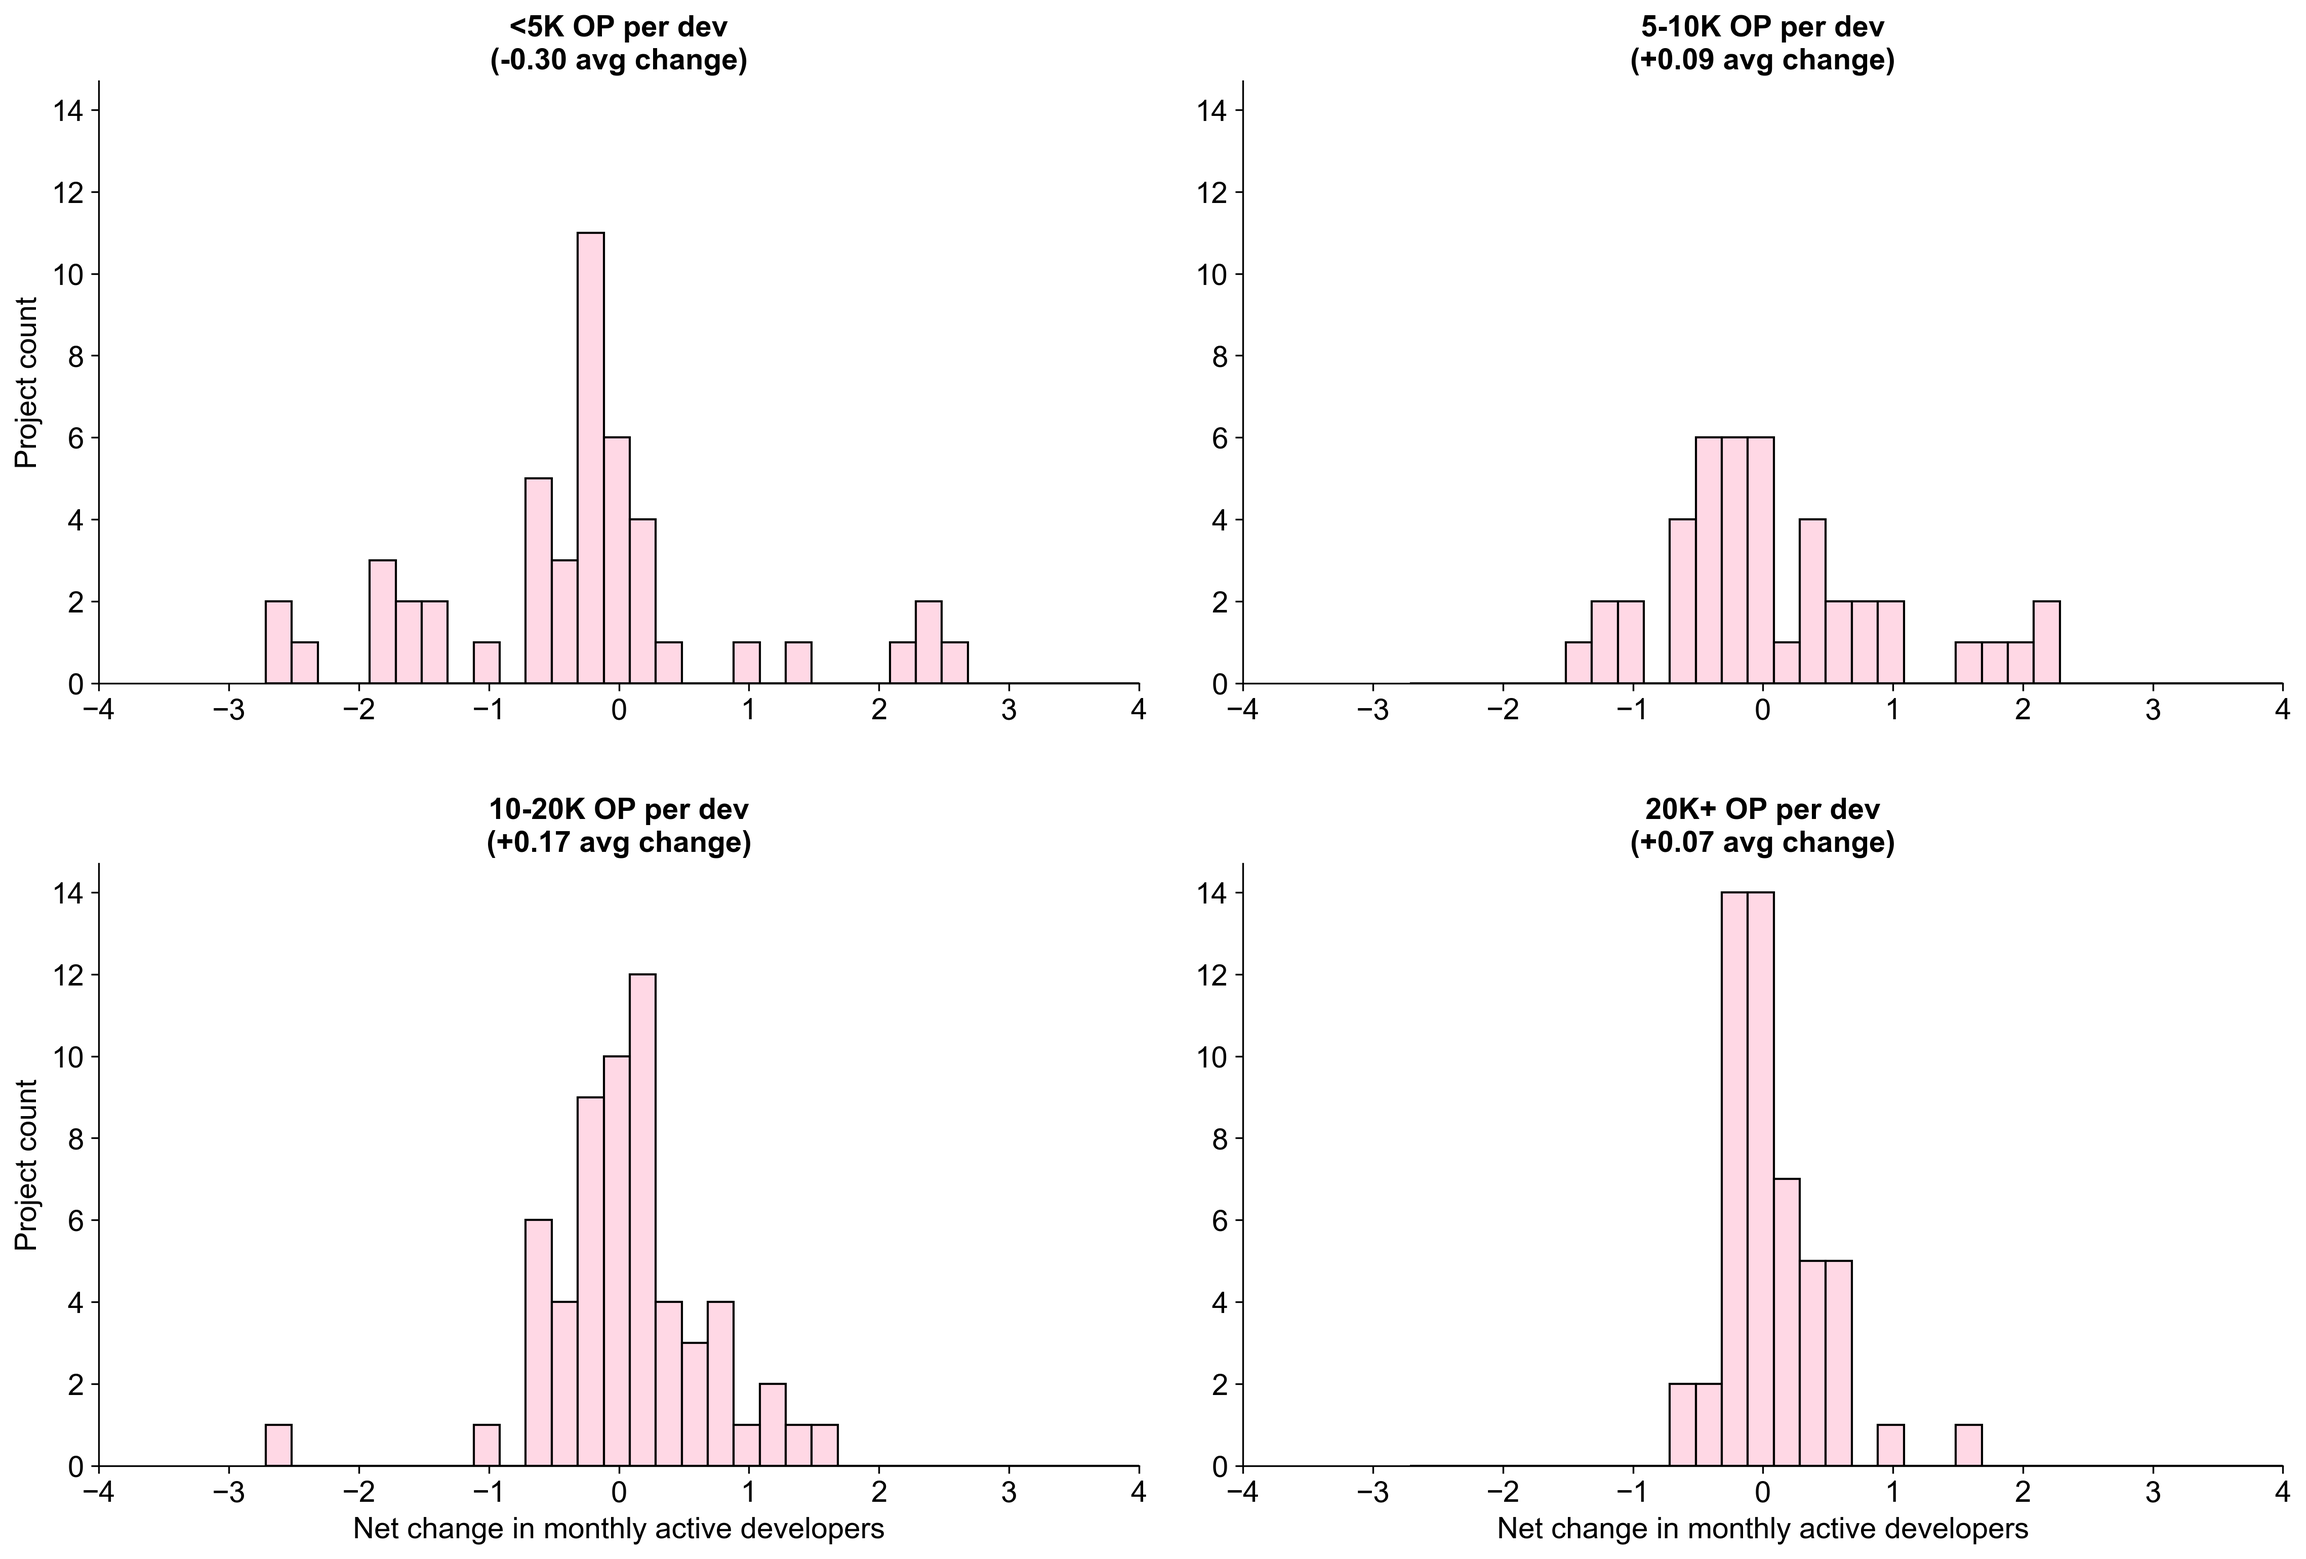
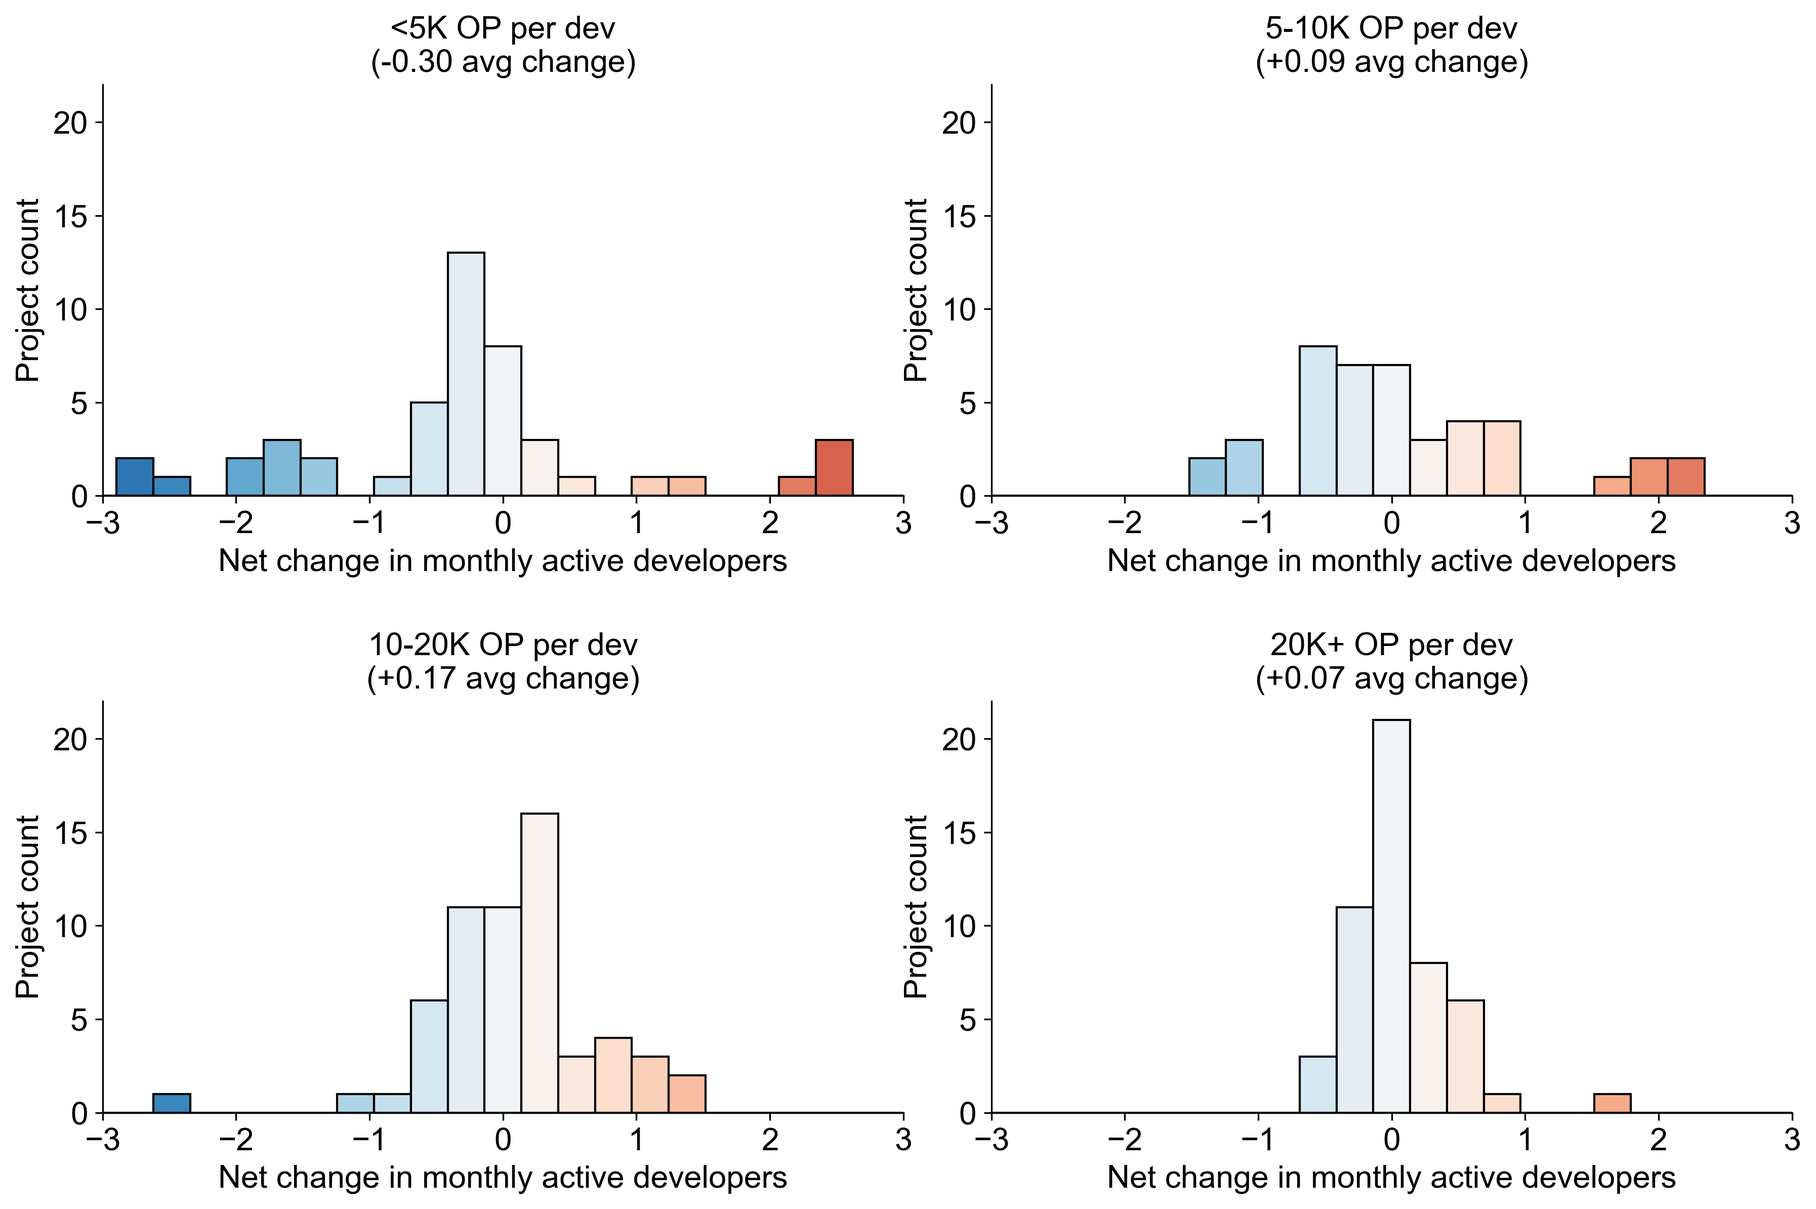
fix: color on histograms

diff --git a/apps/docs/blog/2024-07-15-impact-of-retro-funding/index.md b/apps/docs/blog/2024-07-15-impact-of-retro-funding/index.md
@@ -69,15 +69,15 @@ These observations suggest that the longer a project has been participating in R
 
 To get a sense for what the baseline might be, we looked to the 960 projects that have been tagged as being part of other open source ecosystems but that have never received RF. This group includes projects from the broader Ethereum community as well as some non-crypto open source projects that have received grants from crypto foundations. All of these projects were screened for developer activity in the last 6 months before being added to OSS Directory.
 
-Although this group grew relatively fast in the first half of 2022, growth has slowed down and turned slightly negative over the past year. The overall growth is -0.4% over the past year, a net difference of 14.3% compared to the RF3 cohort.
+Although this group grew relatively fast in the first half of 2022, growth has slowed down and turned slightly negative over the past year. Overall, growth among projects in the "baseline" cohort was -0.4% over the past year, a net difference of 14.3% compared to the RF3 cohort. While these results are promising, we should once again be cautious about attributing causality to RF3. The RF3 cohort is not a random sample of OSS projects, and there are many other factors that could be driving the observed growth in developer activity.
 
-We can also add the 174 "new" projects that are applying for RF4 as a third comparison group. These projects have fewer full-time active developers overall (around 100), but an even faster growth rate of +18.4% over the past year.
+Finally, we can also add the 174 "new" projects that are applying for RF4 as a third comparison group. These projects have fewer full-time active developers overall (around 100), but an even faster growth rate of +18.4% over the past year.
 
 ![Comparison with Control](output_11_1.png)
 
-Although these results are promising, we should once again be cautious about attributing causality to RF3. The RF3 cohort is not a random sample of OSS projects, and there are many other factors that could be driving the observed growth in developer activity.
-
-As an additional benchmark, the Developer Report maintained by Electric Capital [estimates](https://www.developerreport.com/) shows an 11% yoy decline for "full-time developers" in the broader crypto ecosystem. Note that this is a much larger group of projects than the 960 in our baseline.
+:::info
+As an additional benchmark, the [Developer Report maintained by Electric Capital](https://www.developerreport.com/) shows ~11% yoy decline for "full-time developers" in the broader crypto ecosystem and a 10% decline for Ethereum. Note that this is a much larger group of projects than the 960 in our baseline.
+:::
 
 ### Project Level Changes in Developer Activity
 
